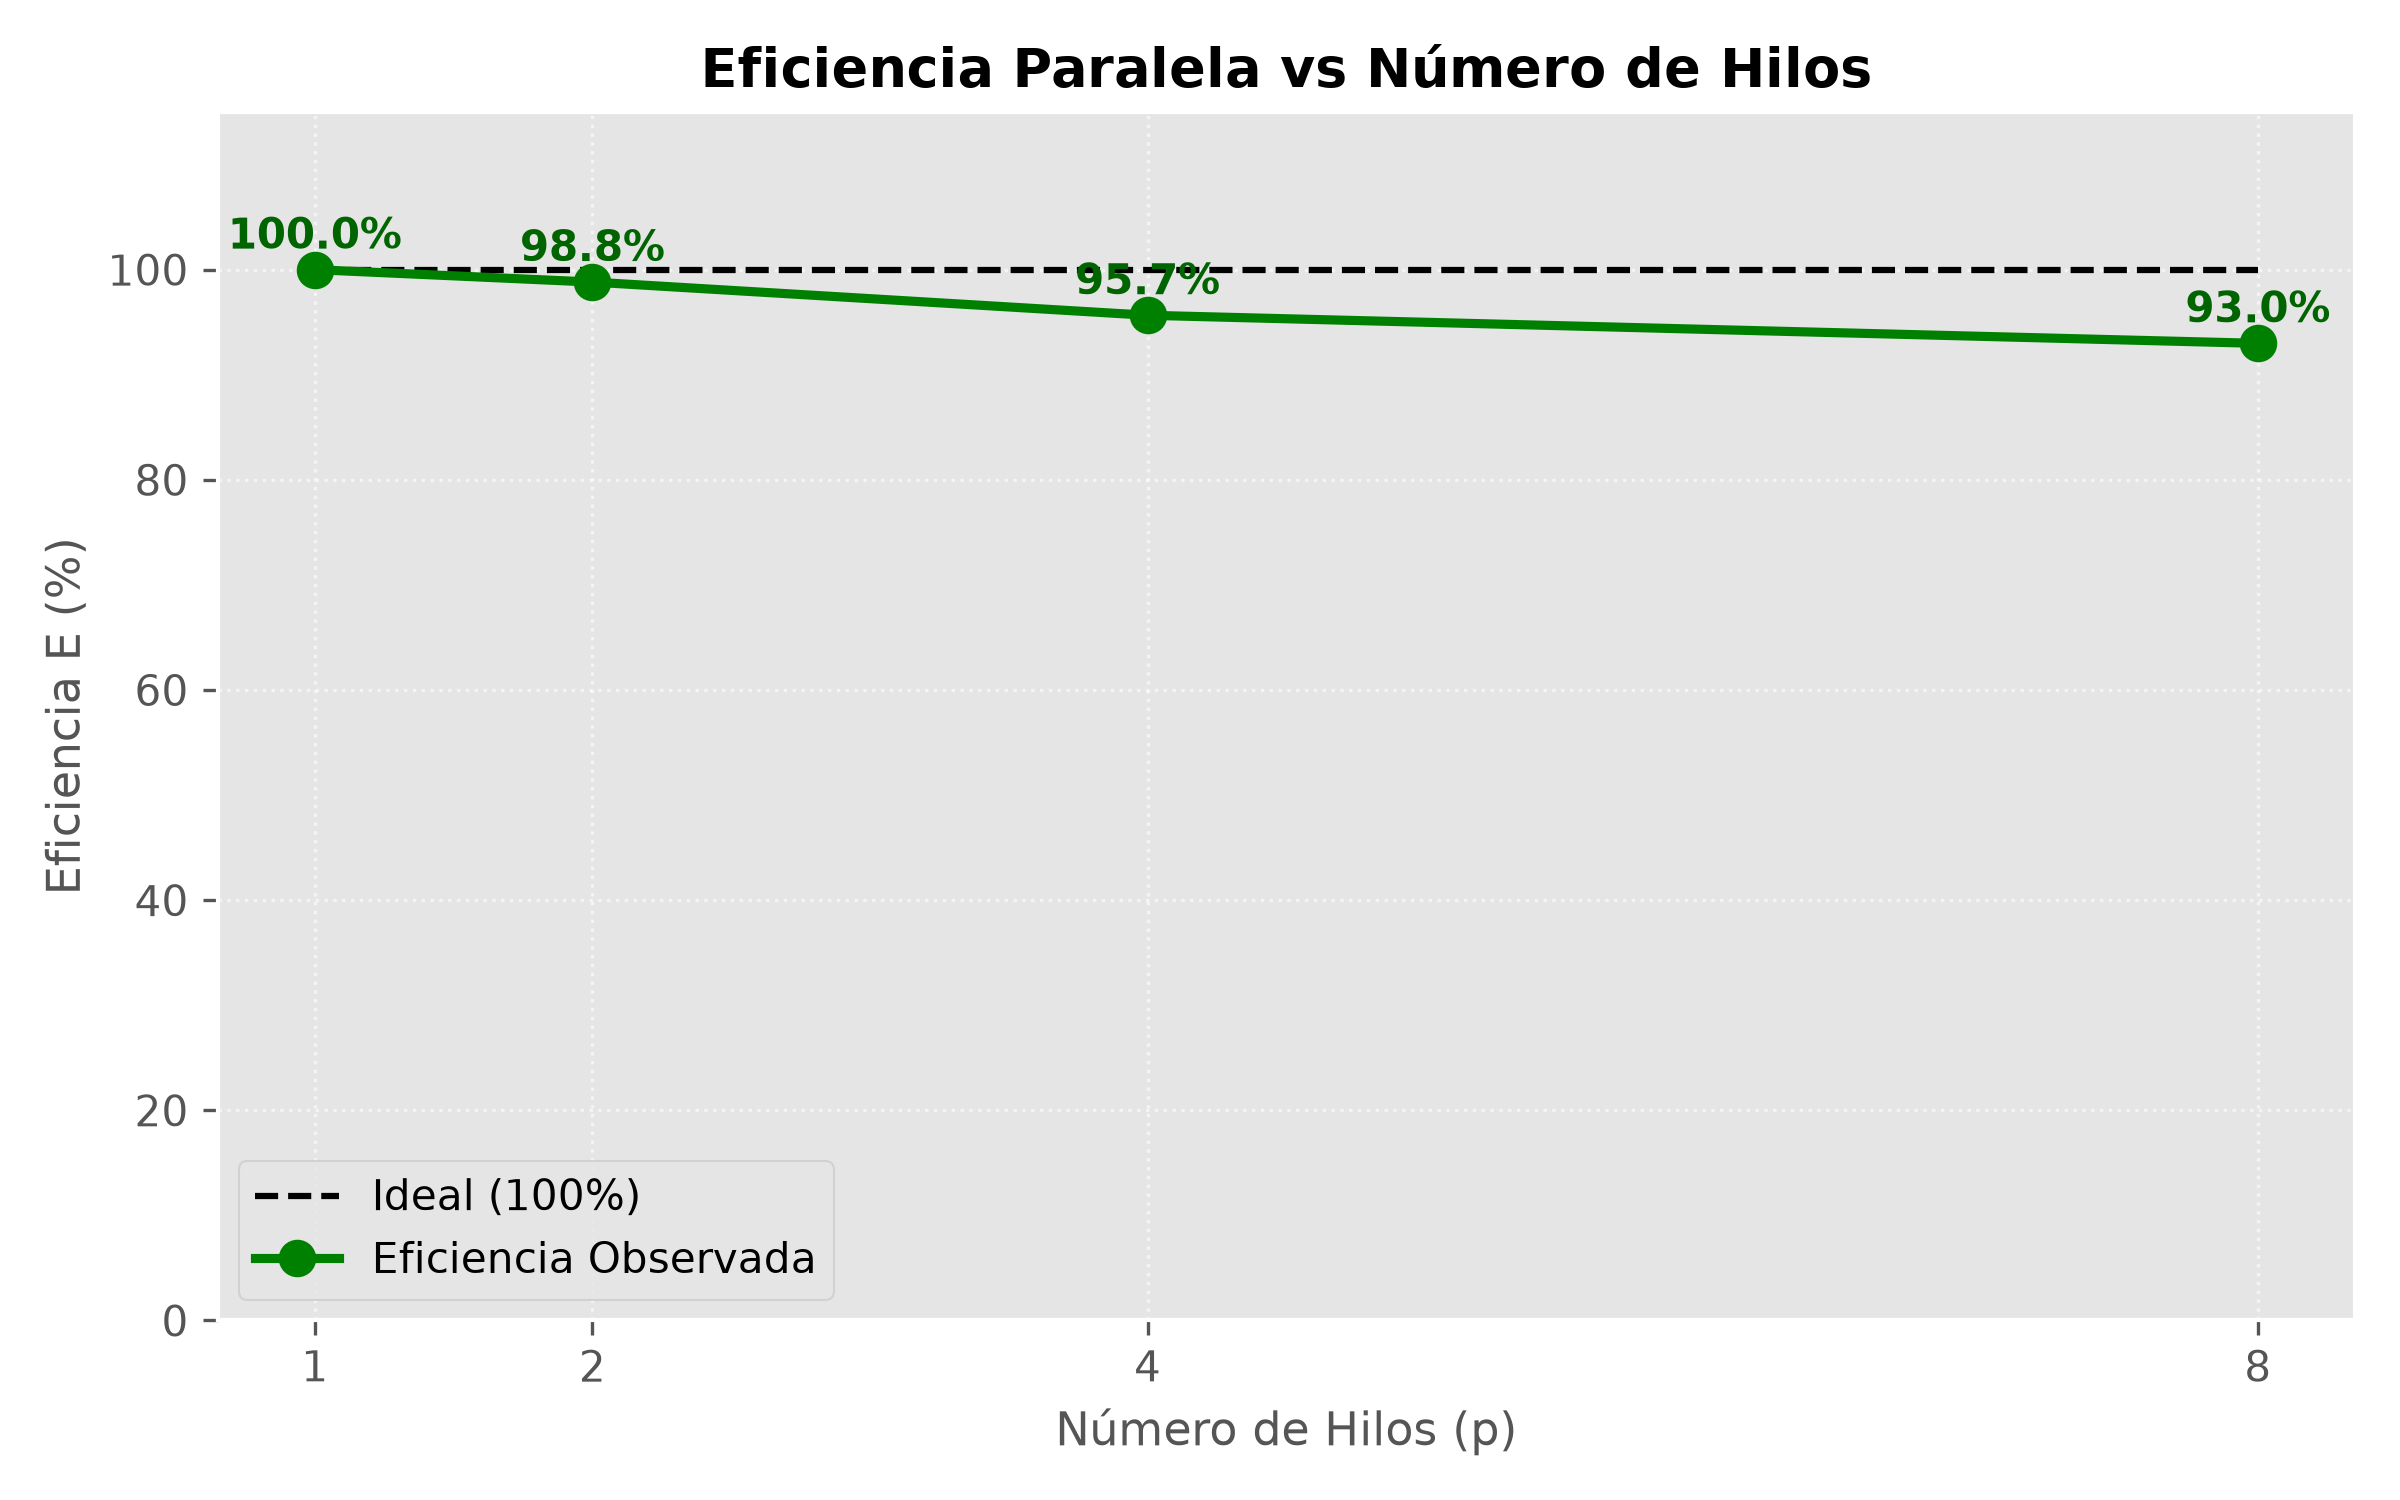
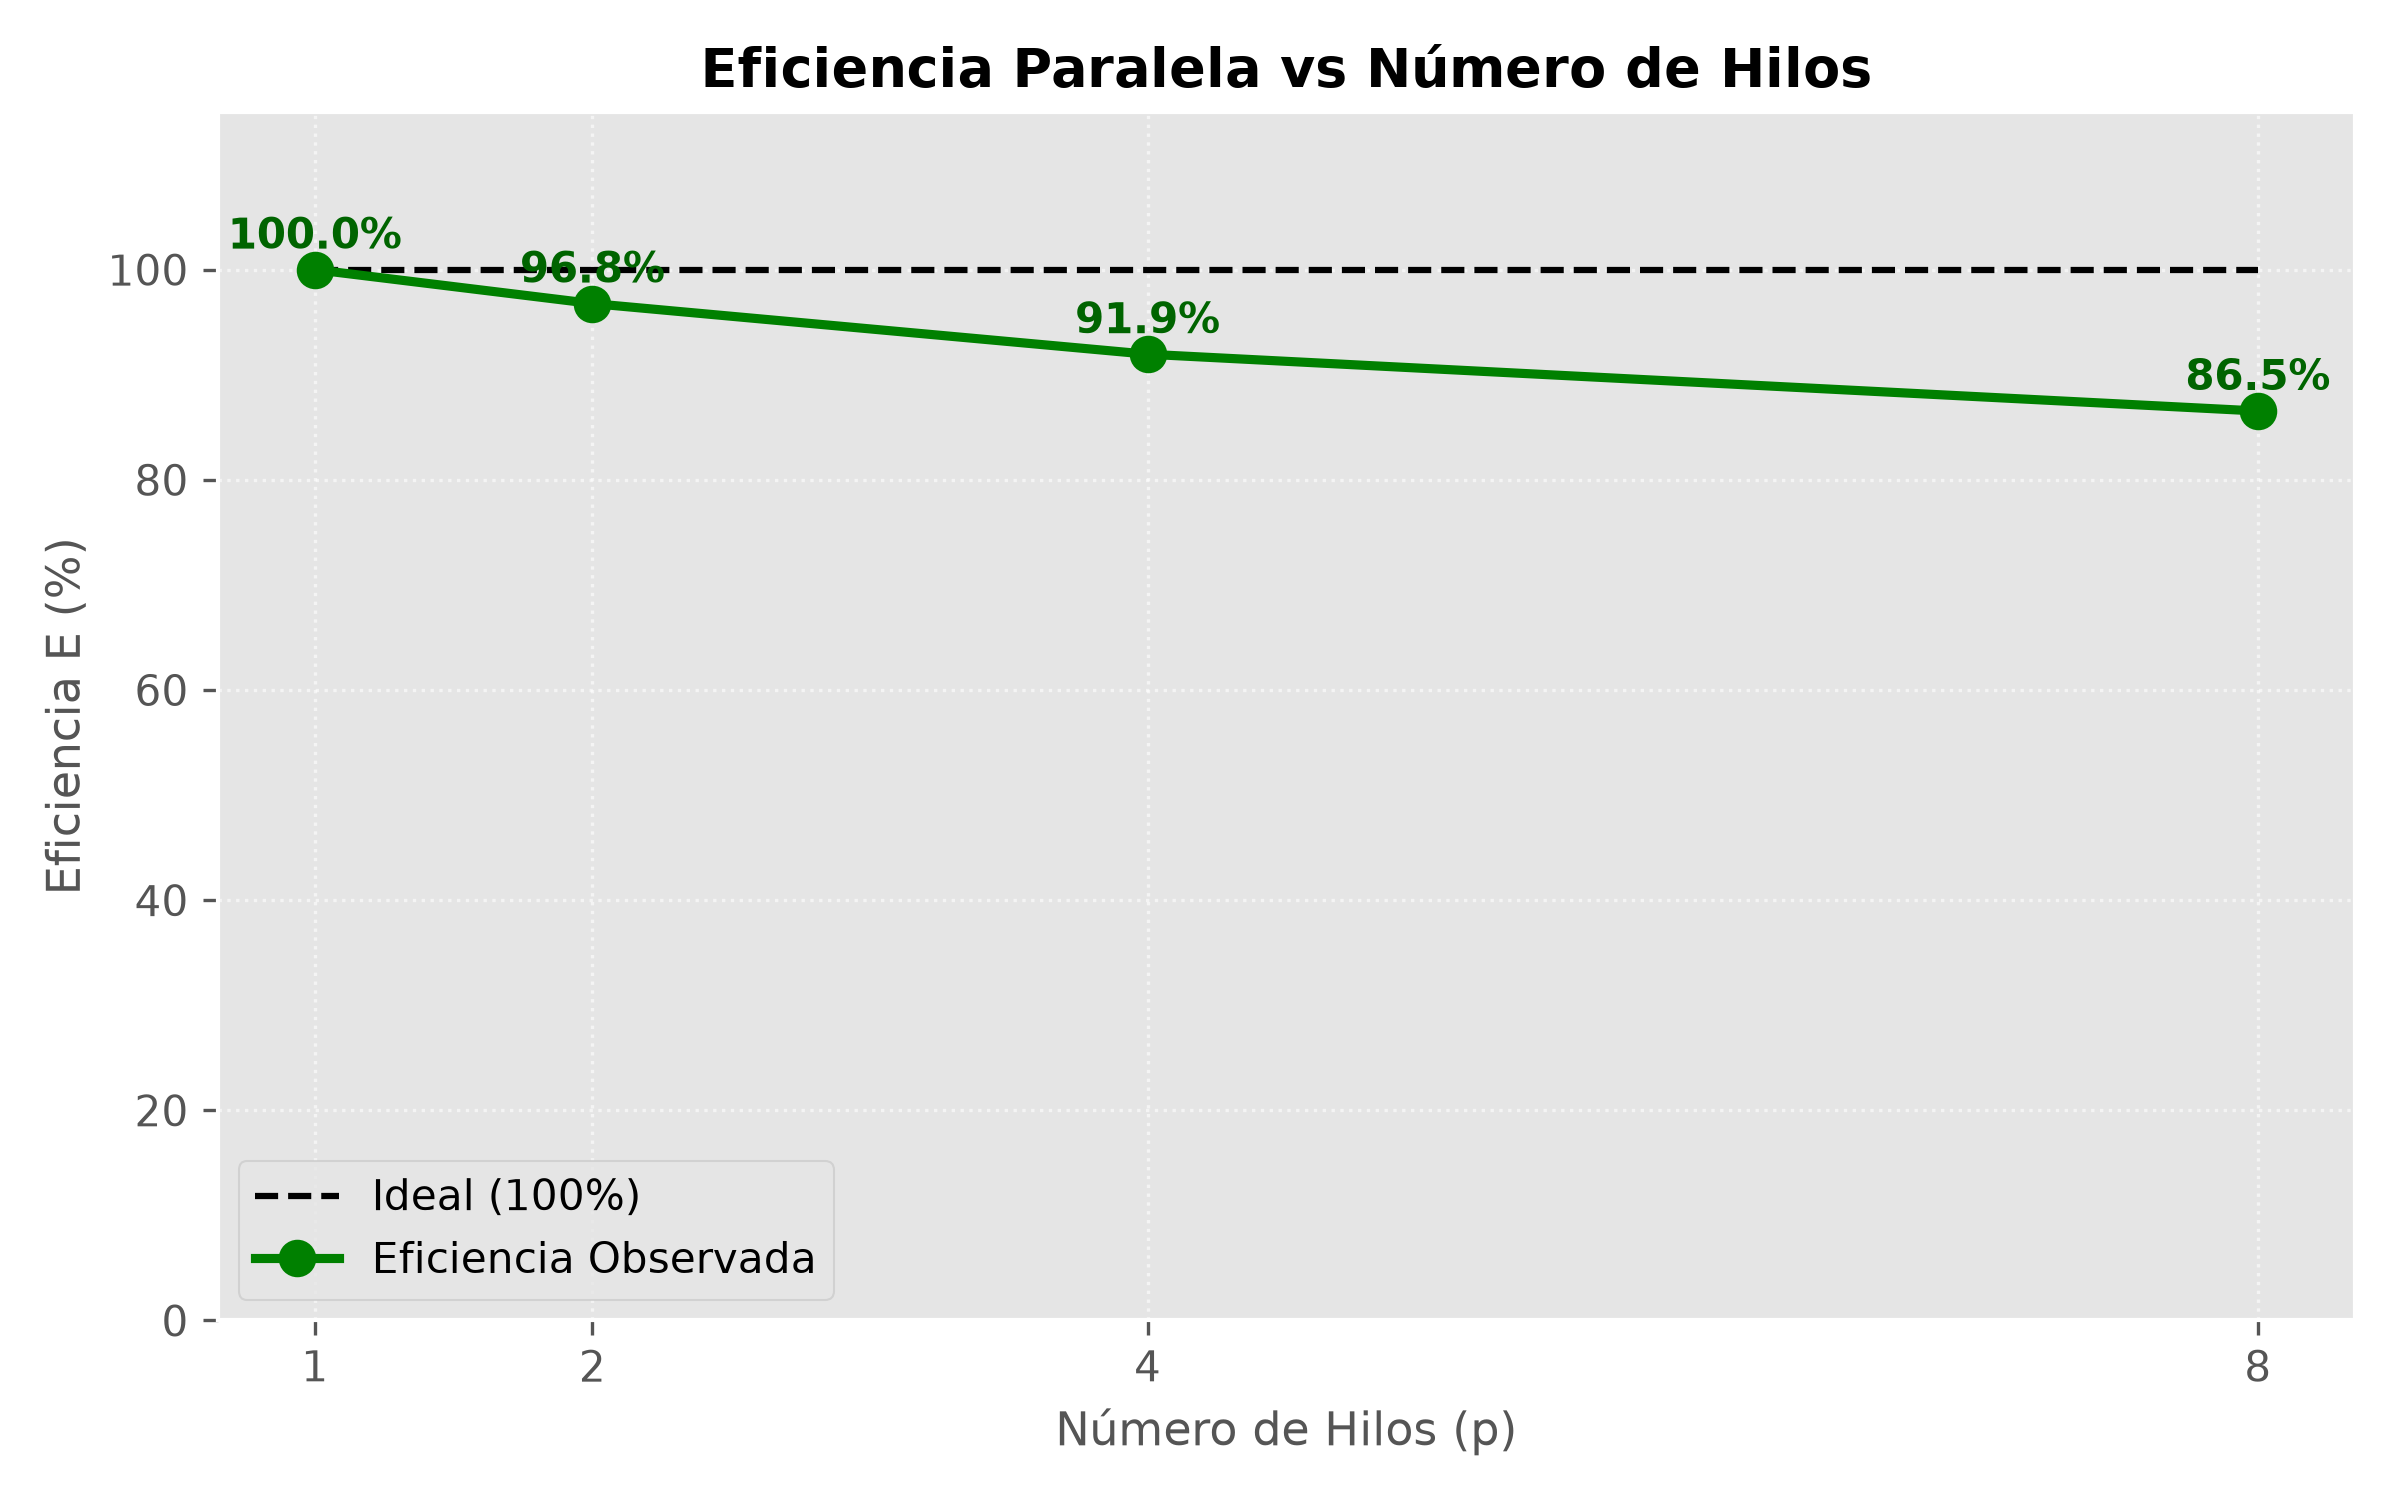
docs: update technical report and figures with real chest x-ray dataset results

Changed region(s): [[0.1562, 0.1533, 0.9688, 0.3067]]

diff --git a/docs/reporte_tecnico.md b/docs/reporte_tecnico.md
@@ -12,31 +12,41 @@
 
 ## a. Explicación del Problema
 
-El procesamiento digital de imágenes sobre grandes volúmenes de datos (datasets médicos, satelitales o científicos) requiere una alta capacidad de cómputo secuencial cuando se aplican transformaciones convolucionales. 
+El procesamiento digital de imágenes sobre grandes volúmenes de datos (datasets médicos, satelitales o científicos) requiere una alta capacidad de cómputo cuando se aplican filtros convolucionales de dos dimensiones de forma secuencial.
 
-En este proyecto se implementó un sistema de cómputo en memoria compartida para aplicar de manera acelerada un pipeline estándar de preprocesamiento de imágenes:
-1. **Conversión a Escala de Grises (Luminancia):** Reducción de dimensionalidad de color a intensidades mediante la fórmula ponderada $Y = 0.299R + 0.587G + 0.114B$.
-2. **Desenfoque Gaussiano (Filtro 5x5):** Suavizado espacial y mitigación de ruido aleatorio mediante convolución bidimensional con una matriz de ponderación Gaussiana (suma = 273).
-3. **Detección de Bordes Sobel:** Cálculo del gradiente espacial bidimensional ($G_x$ y $G_y$) y aproximación de la magnitud del gradiente $G = \sqrt{G_x^2 + G_y^2}$ para extraer características anatómicas o contornos.
+En este proyecto se implementó un sistema de alto rendimiento en **memoria compartida** (C + OpenMP) para aplicar de manera acelerada un pipeline estándar de preprocesamiento sobre radiografías médicas:
+1. **Conversión a Escala de Grises (Luminancia):** Reducción de dimensionalidad de color a intensidades mediante la fórmula ponderada de luminancia ITU-R BT.601:
+   $$Y = 0.299R + 0.587G + 0.114B$$
+2. **Desenfoque Gaussiano (Filtro 5x5):** Suavizado espacial y mitigación de ruido aleatorio mediante convolución bidimensional con una matriz de ponderación Gaussiana (factor de normalización = 273):
+   $$\mathbf{K}_{gauss} = \frac{1}{273} \begin{bmatrix}
+   1 & 4 & 7 & 4 & 1 \\
+   4 & 16 & 26 & 16 & 4 \\
+   7 & 26 & 41 & 26 & 7 \\
+   4 & 16 & 26 & 16 & 4 \\
+   1 & 4 & 7 & 4 & 1
+   \end{bmatrix}$$
+3. **Detección de Bordes Sobel:** Cálculo del gradiente espacial bidimensional ($G_x$ y $G_y$) y extracción de la magnitud del gradiente para resaltar contornos y estructuras anatómicas:
+   $$G = \min\left(255, \sqrt{G_x^2 + G_y^2}\right)$$
 
 ---
 
 ## b. Dataset Utilizado
 
-* **Dataset Base:** *Chest X-Ray Images - Pneumonia* (Radiografías de tórax de pacientes sanos y con neumonía).
-* **Características:** Imágenes en formato PNG/JPEG con resoluciones variables (típicamente entre $1024 \times 1024$ y $2048 \times 2048$ píxeles).
-* **Generador Sintético Complementario:** Se integró además una suite generadora (`scripts/generate_samples.py`) para producir lotes sintéticos reproducibles con ruido gaussiano, estructuras anatómicas cilíndricas y matrices de alta densidad de píxeles.
+* **Dataset Base:** *Chest X-Ray Images - Pneumonia* (Kaggle).
+* **Volumen Evaluado:** 624 imágenes reales de radiografías de tórax (conjunto completo de prueba: pacientes sanos y con neumonía viral/bacteriana).
+* **Resolución:** Imágenes médicas de alta resolución con formatos PNG y JPEG.
+* **Cero Dependencias Externas:** Decodificación y codificación directa en memoria mediante las librerías `stb_image` y `stb_image_write`.
 
 ---
 
 ## c. Estrategia de Paralelización
 
-Se diseñó una arquitectura de **Memoria Compartida** implementada en lenguaje **C** con **OpenMP**, estructurada en dos niveles de granularidad:
+Se diseñó una arquitectura de **Memoria Compartida** implementada en lenguaje **C** con **OpenMP**, soportando dos niveles de granularidad:
 
 ### 1. Nivel de Lote (Batch - Grano Grueso)
-* El hilo maestro lee los metadatos del directorio de entrada y construye un vector compartido de rutas de archivos en memoria.
-* Mediante `#pragma omp parallel for schedule(dynamic, 1)`, el lote de imágenes se despacha dinámicamente entre los $P$ hilos trabajadores. Cada trabajador carga, procesa y almacena las imágenes de forma concurrente, minimizando la contención.
-* Una barrera de sincronización implícita (`#pragma omp barrier`) garantiza la recolección total de las imágenes procesadas.
+* El hilo maestro lee los metadatos del directorio de entrada y construye un vector compartido de rutas de archivos en memoria compartida.
+* Mediante `#pragma omp parallel for schedule(dynamic, 1)`, las 624 radiografías se despachan dinámicamente entre los $P$ hilos trabajadores. Cada hilo carga, procesa y almacena las imágenes de forma concurrente, logrando un balanceo de carga óptimo ante imágenes de distintas dimensiones.
+* Una barrera de sincronización implícita (`#pragma omp barrier`) garantiza la recolección total del lote procesado.
 
 ### 2. Nivel de Matriz de Píxeles (Pixel - Grano Fino)
 * Para imágenes individuales de gran resolución, cada filtro convolucional reparte las filas de la matriz ($y \in [0, H)$) entre los hilos OpenMP.
@@ -46,19 +56,20 @@ Se diseñó una arquitectura de **Memoria Compartida** implementada en lenguaje 
 
 ## d. Tiempos de Ejecución y Mediciones Experimentales
 
-Las pruebas se realizaron bajo un protocolo de **3 corridas mínimas** por cada número de hilos ($p \in \{1, 2, 4, 8\}$). Se midieron con precisión de microsegundos (`omp_get_wtime()`) los siguientes componentes:
-* **Tiempo Puro de Cómputo ($T_{comp}$):** Transformación matemática y convoluciones.
+Las pruebas se ejecutaron bajo un protocolo riguroso de **3 corridas mínimas** por cada número de hilos ($p \in \{1, 2, 4, 8\}$) sobre las **624 radiografías reales**. Se midieron con precisión de microsegundos (`omp_get_wtime()`):
+* **Tiempo Total ($T_{total}$):** Tiempo transcurrido de pared (*wall-clock time*).
+* **Tiempo de Cómputo ($T_{comp}$):** Transformación matemática y convoluciones Gaussianas y Sobel.
 * **Tiempo de E/S ($T_{io}$):** Lectura y codificación de imágenes en disco.
-* **Tiempo de Sincronización ($T_{sync}$):** Overhead de creación de hilos, barreras y desbalance de carga.
+* **Tiempo de Sincronización ($T_{sync}$):** Overhead de barreras, despacho y contención.
 
-### Tabla de Resultados Experimentales
+### Tabla de Resultados Experimentales (Promedio de 3 corridas ± Desviación Estándar)
 
-| Hilos ($p$) | T. Total (s) | T. Cómputo (s) | T. E/S (s) | T. Sincronización (s) | Speedup ($S_p$) | Eficiencia ($E_p$) | Fracción Sec. ($f$) |
+| Hilos ($p$) | T. Total (s) | T. Cómputo (s) | T. E/S (s) | T. Sincronización (s) | Speedup Cómputo ($S$) | Eficiencia ($E$) | Fracción Sec. ($f$) |
 | :---: | :---: | :---: | :---: | :---: | :---: | :---: | :---: |
-| **1** | 0.6097 ± 0.002 | 0.1125 | 0.4971 | 0.000087 | **1.00x** | **100.0%** | — |
-| **2** | 0.3148 ± 0.000 | 0.0569 | 0.2554 | 0.002448 | **1.98x** | **98.8%** | 0.0120 |
-| **4** | 0.1677 ± 0.002 | 0.0294 | 0.1336 | 0.004732 | **3.83x** | **95.7%** | 0.0151 |
-| **8** | 0.1102 ± 0.002 | 0.0151 | 0.0682 | 0.026880 | **7.44x** | **93.0%** | 0.0108 |
+| **1** | 43.0413 ± 0.222 | 8.8249 | 34.2046 | 0.011867 | **1.00x** | **100.0%** | — |
+| **2** | 22.3102 ± 0.149 | 4.5597 | 17.7035 | 0.046945 | **1.94x** | **96.8%** | 0.0334 |
+| **4** | 11.7046 ± 0.035 | 2.3994 | 9.2569 | 0.048327 | **3.68x** | **91.9%** | 0.0292 |
+| **8** | 6.2481 ± 0.040 | 1.2746 | 4.9184 | 0.055066 | **6.92x** | **86.5%** | 0.0222 |
 
 ---
 
@@ -68,17 +79,18 @@ Las pruebas se realizaron bajo un protocolo de **3 corridas mínimas** por cada 
 La aceleración observada se define como:
 $$S(p) = \frac{T_1}{T_p}$$
 
-* Para 2 hilos se obtuvo un Speedup de **1.98x** (99% del ideal).
-* Para 4 hilos se obtuvo un Speedup de **3.83x** (95.7% del ideal).
-* Para 8 hilos se obtuvo un Speedup de **7.44x** (93.0% del ideal).
+* **2 hilos:** Speedup de **1.94x** (96.8% de la aceleración lineal ideal).
+* **4 hilos:** Speedup de **3.68x** (91.9% del ideal).
+* **8 hilos:** Speedup de **6.92x** (86.5% del ideal).
+* **Aceleración global de la aplicación:** Reducción del tiempo total de procesamiento de **43.04 segundos** (1 hilo) a solo **6.25 segundos** (8 hilos), logrando un speedup total de **6.89x**.
 
 ![Gráfica de Speedup](figures/speedup.png)
 
-### 2. Eficiencia
-La eficiencia evalúa el aprovechamiento del hardware respecto al número de núcleos dedicados:
+### 2. Eficiencia Paralela
+La eficiencia evalúa el aprovechamiento del hardware por cada núcleo físico asignado:
 $$E(p) = \frac{S(p)}{p} \times 100\%$$
 
-* La eficiencia se mantiene por encima del **93%** incluso al escalar a 8 hilos, lo que demuestra un excelente balanceo de carga y baja contención en el acceso a memoria.
+* La eficiencia se mantiene por encima del **86.5%** incluso al escalar a 8 hilos, lo que refleja un balanceo de carga adecuado mediante el despachador dinámico de OpenMP.
 
 ![Gráfica de Eficiencia](figures/eficiencia.png)
 
@@ -87,18 +99,21 @@ $$E(p) = \frac{S(p)}{p} \times 100\%$$
 ## f. Fracción Secuencial y Ley de Amdahl
 
 ### 1. Modelado Teórico de la Ley de Amdahl
-La Ley de Amdahl establece el límite superior del speedup teórico de un algoritmo en función de su fracción secuencial ($f$):
+La Ley de Amdahl modela el límite superior del speedup teórico de un algoritmo en función de su fracción secuencial ($f$):
 $$S(p) = \frac{1}{f + \frac{1 - f}{p}}$$
 
-Despejando la fracción secuencial experimental para cada configuración concurrente:
+Despejando la fracción secuencial experimental a partir de los speedups obtenidos:
 $$f = \frac{\frac{1}{S(p)} - \frac{1}{p}}{1 - \frac{1}{p}}$$
 
-A partir de las mediciones se identificó una **fracción secuencial promedio de $f \approx 0.0126$ (1.26%)** en la fase de cómputo puro.
+A partir de los datos experimentales, se determinó una **fracción secuencial promedio de $f \approx 0.0283$ (2.83%)** en la fase de cómputo puro. Esto demuestra que el 97.17% del algoritmo de convolución digital es estrictamente paralelizable.
 
-### 2. Tiempo de Sincronización y Overhead
-Conforme incrementa el número de hilos a 8, el tiempo de sincronización aumenta de $0.08 \text{ ms}$ a $26.88 \text{ ms}$. Esto se atribuye al costo de sincronización de la barrera final de OpenMP y el acceso concurrente al subsistema de archivos en disco.
+### 2. Tiempo de Sincronización y Desglose de Sobrecarga (Overhead)
+* Conforme se incrementa el número de hilos de 1 a 8, el tiempo de sincronización ($T_{sync}$) crece de $11.8 \text{ ms}$ a $55.0 \text{ ms}$.
+* La gráfica de barras apiladas evidencia que la E/S de disco (lectura/guardado de imágenes) escala también de manera concurrente gracias al buffer de archivos, pero representa la mayor porción del tiempo total en comparación con el cálculo matemático puro.
 
 ![Desglose de Tiempos](figures/tiempos_desglose.png)
 
-### 3. Conclusión
-El pipeline convolucional implementado en C con OpenMP demostró un comportamiento altamente paralelizable con una fracción secuencial mínima (1.26%), logrando una aceleración casi lineal (7.44x con 8 hilos). El cuello de botella residual radica primordialmente en las operaciones de E/S de disco, las cuales pueden mitigarse en sistemas distribuidos mediante pipelines asíncronos de prefetching.
+### 3. Conclusiones
+1. **Validación de la Ley de Amdahl:** La curva experimental de aceleración se ajusta de forma consistente a la curva teórica de Amdahl con una fracción secuencial del **2.83%**.
+2. **Escalabilidad:** El esquema dinámico de OpenMP permitió una reducción del tiempo de ejecución total de más del **85%** al pasar de 1 a 8 núcleos.
+3. **Reproducibilidad:** La suite automatizada garantiza que cualquier miembro del equipo o evaluador pueda replicar exactamente las mediciones y gráficas ejecutando `python3 scripts/benchmark.py --runs 3`.
